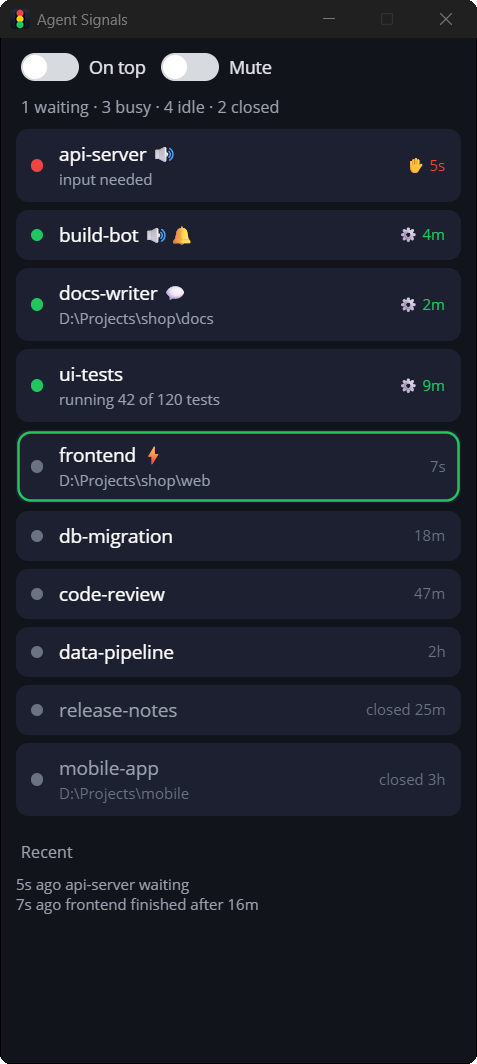
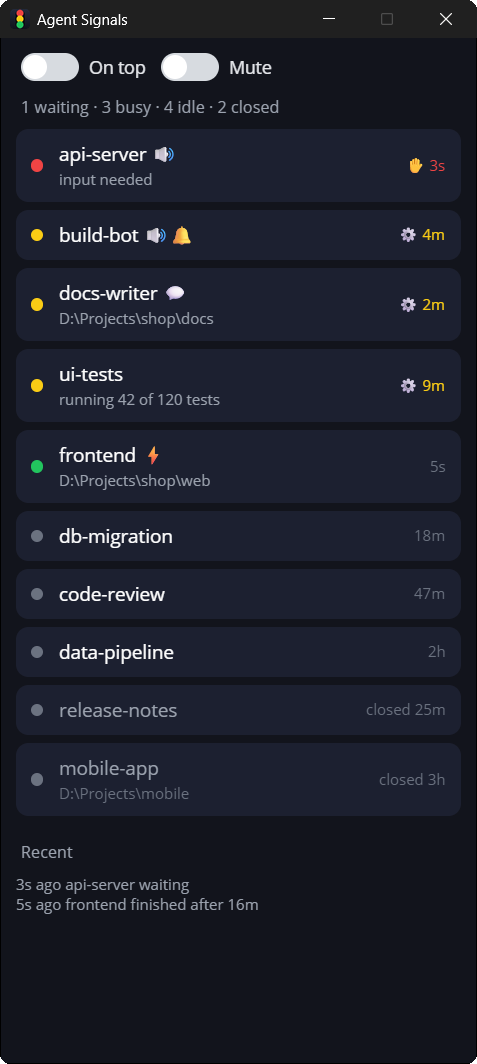
Finished-unseen: a green dot instead of the row outline; working is yellow again
README, screenshot and banner follow (waiting red, working yellow, finished green, idle or closed gray).

Claude-Session: https://claude.ai/code/session_01MRKX6dThumLK7V6QQPno4S

diff --git a/src/lib.rs b/src/lib.rs
@@ -48,7 +48,7 @@ struct App {
     inactive: Vec<Saved>,
     /// Lower-case session name to its row tint.
     tints: HashMap<String, u32>,
-    /// Ids of sessions that finished unseen: their rows are outlined.
+    /// Ids of sessions that finished unseen: their dots are green.
     unseen: std::collections::HashSet<String>,
     /// The user folder: a session started there shows no folder line.
     home: String,
@@ -436,12 +436,15 @@ fn section(title: &str) -> Build<SkiaLabel> {
 
 /// Idle and closed sessions: the quiet gray.
 const IDLE: u32 = 0x6B7280;
+/// The dot of a session that finished while its terminal tab was not in front, until seen.
+const FINISHED: u32 = 0x22C55E;
 
 fn status_color(status: &str) -> Color {
     match status {
-        // Red asks you something, green works, gray rests (as closed sessions are gray).
+        // Red asks you something, yellow works, gray rests (as closed sessions are gray); green is
+        // `FINISHED`, an idle session not looked at yet.
         "waiting" => hex(0xEF4444),
-        "busy" => hex(0x22C55E),
+        "busy" => hex(0xFACC15),
         _ => hex(IDLE),
     }
 }
@@ -474,23 +477,15 @@ fn session_row(pid: u32, name: String) -> Build<SkiaShape> {
             true
         })
         .children((
-            // Finished while its tab was not in front: outlined until seen. Its own layer over
-            // the whole row, so showing it moves nothing.
-            SkiaShape::new()
-                .fill()
-                .margin((-12, -10, -12, -10))
-                .corner_radius(10)
-                .stroke_width(2)
-                .observe(move |me, app: &App| {
-                    let unseen = app.session(pid).is_some_and(|s| app.unseen.contains(&s.id));
-                    me.set_stroke_color(if unseen { hex(0x22C55E) } else { Color::TRANSPARENT });
-                }),
             SkiaShape::new()
                 .corner_radius(5)
                 .width_request(10)
                 .height_request(10)
                 .vertical_options(LayoutOptions::Center)
-                .observe(move |me, app: &App| me.set_background_color(status_color(app.session(pid).map_or("", |s| &s.status)))),
+                .observe(move |me, app: &App| {
+                    let Some(s) = app.session(pid) else { return };
+                    me.set_background_color(if app.unseen.contains(&s.id) { hex(FINISHED) } else { status_color(&s.status) });
+                }),
             SkiaStack::new().margin((22, 0, 84, 0)).spacing(2).children((
                 label(&name, 15).text_color(Color::WHITE).observe(move |me, app: &App| {
                     let icons = state::rule_icons(&app.rules, &name);

diff --git a/src/worker.rs b/src/worker.rs
@@ -85,7 +85,7 @@ fn run(shared: Shared, rx: Receiver<Cmd>, tx: Sender<Cmd>) {
             state::sort_sessions(&mut sessions);
             st.sessions = sessions;
             st.version += 1;
-            // A session that finished while nobody looked at its tab is highlighted.
+            // A session that finished while nobody looked at its tab gets a green dot.
             let viewed = if events.iter().any(|e| e.kind == "finished") { signals.viewed_tab() } else { None };
             for event in events.iter().filter(|e| e.kind == "finished") {
                 if let Some(s) = live.get(&event.pid).filter(|s| !s.id.is_empty()) {
@@ -117,8 +117,8 @@ fn run(shared: Shared, rx: Receiver<Cmd>, tx: Sender<Cmd>) {
     }
 }
 
-/// Highlighted sessions stop being highlighted once their tab is in front, or when they work again
-/// or end. The tab in front is read only while something is highlighted.
+/// A finished session's green dot goes once its tab is in front, or when it works again or ends.
+/// The tab in front is read only while some dot is green.
 fn unseen(signals: &Signals, shared: &Shared, live: &HashMap<u32, Session>) {
     let ids: Vec<String> = shared.lock().unwrap().unseen.iter().cloned().collect();
     if ids.is_empty() {

diff --git a/dev/make_banner.py b/dev/make_banner.py
@@ -39,9 +39,9 @@ d.text((74 * S, 464 * S), "Click to jump to its terminal, or reopen a closed one
 # Status legend.
 x = 76
 f = font("seguisb.ttf", 18)
-# The app's status dots: red waits for you, green works, gray rests or is closed.
-WORKING = (34, 197, 94)
-for label, c in [("waiting", RED), ("working", WORKING), ("idle or closed", GRAY)]:
+# The app's status dots: red waits for you, yellow works, green just finished, gray rests or is closed.
+FINISHED = (34, 197, 94)
+for label, c in [("waiting", RED), ("working", YELLOW), ("finished", FINISHED), ("idle or closed", GRAY)]:
     d.ellipse([x * S, 536 * S, (x + 14) * S, 550 * S], fill=c)
     d.text(((x + 22) * S, 530 * S), label, font=f, fill=MUTED)
     x += 22 + int(d.textlength(label, font=f) / S) + 30

diff --git a/src/state.rs b/src/state.rs
@@ -120,7 +120,7 @@ pub struct State {
     pub inactive: Vec<crate::restore::Saved>,
     /// Lower-case session name to the color its row is tinted with (0xRRGGBB); in settings.json.
     pub tints: HashMap<String, u32>,
-    /// Ids of sessions that finished while their terminal tab was not in front: highlighted until
+    /// Ids of sessions that finished while their terminal tab was not in front: a green dot until
     /// the user looks at that tab, clicks the row, or the session works again.
     pub unseen: std::collections::HashSet<String>,
 }

diff --git a/src/platform/macos.rs b/src/platform/macos.rs
@@ -336,7 +336,7 @@ impl Signals {
     }
 
     /// The title of the tab the user is looking at. Not done on macOS yet: `None` = nothing is
-    /// being looked at, so every session that finishes stays highlighted until it is clicked.
+    /// being looked at, so every session that finishes keeps its green dot until it is clicked.
     // ponytail: the selected tab of Terminal's front window when Terminal is the frontmost app.
     pub fn viewed_tab(&self) -> Option<String> {
         None

diff --git a/README.md b/README.md
@@ -8,7 +8,8 @@ which one is done, which one is waiting for your answer, and which one is still 
 puts all of them in one small window and tells you when something happens, so you stop cycling
 through tabs to find out.
 
-- **See every session at a glance**: red is waiting for you, green is working, gray is free.
+- **See every session at a glance**: red is waiting for you, yellow is working, green has just
+  finished, gray is free.
 - **Know when one finishes**: right-click a session and turn on what you want: a spoken
   "api-server finished", a sound, a notification, a flashing taskbar or Dock icon.
 - **Jump to it**: click a session to bring its terminal tab to the front.
@@ -18,7 +19,7 @@ through tabs to find out.
 Nothing to configure in Claude Code: the app reads the list of sessions Claude Code already keeps.
 Windows and macOS, written in Rust, its UI drawn with [DrawnUi.Rust](https://github.com/DrawnUi/DrawnUi.Rust).
 
-<img src="docs/screenshot.png" alt="Agent Signals: sessions waiting (red), working (green) and idle (gray) with their signal icons, one outlined because it finished unseen, closed sessions ready to reopen, and recent events" width="420">
+<img src="docs/screenshot.png" alt="Agent Signals: sessions waiting (red), working (yellow), just finished (green) and idle (gray) with their signal icons, closed sessions ready to reopen, and recent events" width="420">
 
 ## The window
 
@@ -88,7 +89,7 @@ sessions that run in a terminal are kept, and only once they have a conversation
 before its first message has nothing to reopen).
 
 **Finished while you looked elsewhere**: a session that finishes while its terminal tab is not the one
-in front gets a green outline, so you see what is new. It goes when you click the row, switch to its
+in front gets a green dot, so you see what is new. It turns gray when you click the row, switch to its
 tab yourself, or the session starts working again (on macOS, for now, only the click and new work
 clear it).
 
@@ -101,10 +102,10 @@ The list scrolls when it is longer than the window; the bar on the right shows w
 | On a row | Meaning |
 |---|---|
 | 🔴 red dot | The session waits for you: a question, a permission dialog. |
-| 🟢 green dot | The session is working. |
+| 🟡 yellow dot | The session is working. |
+| 🟢 green dot | It finished while you were not looking at its terminal tab: new for you. |
 | ⚪ gray dot | The session is idle: it finished and has nothing to do. |
 | ⚪ gray dot, gray name, "closed 2h" | The session is closed: its terminal is gone. Click to reopen it. |
-| green outline | It finished while you were not looking at its terminal tab. It goes when you click the row, switch to its tab, or it starts working again. |
 | ✋ 1m | Waiting for you, for 1 minute so far. |
 | ⚙ 4m | Working, for 4 minutes so far. |
 | 18m (no icon) | Idle, finished 18 minutes ago. |
